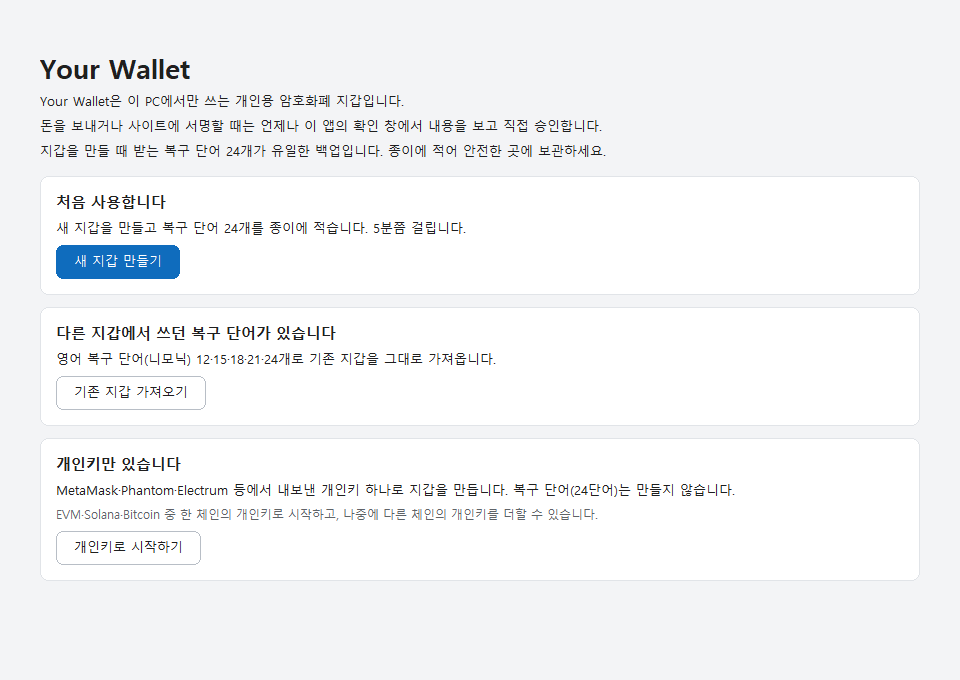
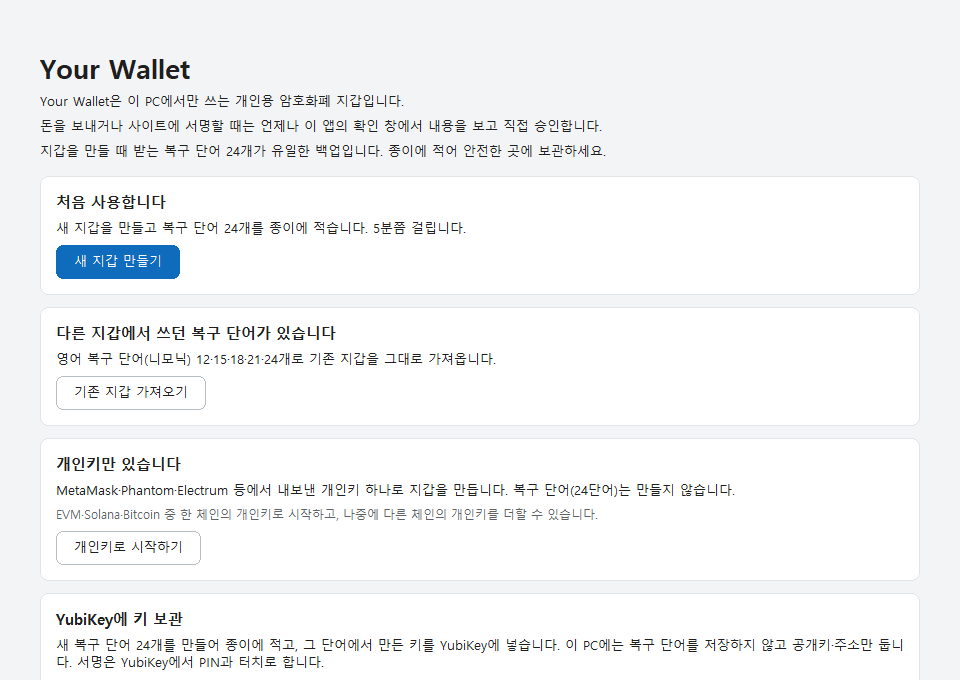
docs: screenshot tour for the YubiKey wizard, the YubiKey wallet and the card step
- tour scenes 35–43: the S01 card "YubiKey에 키 보관", S20, the wizard's
  keys/slots, confirmation (paths and addresses), credentials, W12 admin PIN,
  result (read-back slots, 다시 확인), settings → YubiKey and W11; computed in
  the tour from the public test mnemonic (no card, no key worker, made-up
  serial)
- re-shot 01 (fourth first-run card) and 17/23 (the new settings tab)
- slot lines show the address right after the path

Changed region(s): [[0.0625, 0.8956, 0.9375, 0.9882]]

diff --git a/crates/yw-app/src/ui/tour.rs b/crates/yw-app/src/ui/tour.rs
@@ -891,6 +891,152 @@ fn wait_for_ai(app: &Rc<RefCell<App>>) {
     }
 }
 
+/// The `YubiKey` scenes (spec/10 §7, §9.2): the wizard's four steps, W12, settings → `YubiKey`
+/// and W11. No card and no key worker: the preview and the record are computed here from the
+/// public test mnemonic (`abandon`×11 `about`) — SIG = EVM 0, AUT = Bitcoin P2WPKH 0 (testnet4),
+/// PIV 82 = Solana 0 — and the serial `12345678` is made up.
+#[expect(clippy::too_many_lines, reason = "one scene after another")]
+fn tour_yubikey(app: &Rc<RefCell<App>>) {
+    use yw_core::btc::ScriptType;
+    use yw_core::yubikey::Firmware;
+    use yw_core::yubikey::enrol::{DefaultsSeen, Enrolled};
+    use yw_core::yubikey::plan::{CardSlot, KeyRole, PgpKey, PivSlot, PlannedSlot};
+    use yw_core::yubikey::record::{HwKeyRecord, RecordedSlot};
+
+    use crate::app_yubikey::{WizardOrigin, WizardStep, YkPurpose, YkWizard};
+    use crate::ui::secret::CardSecretKind;
+    use crate::workers::key::yubikey::YkPreview;
+
+    let network = app.borrow().yk_network();
+    let seed = *yw_core::bip39::Mnemonic::parse(&test_phrase_12())
+        .unwrap()
+        .to_seed(&yw_core::password::Bip39Passphrase::empty())
+        .unwrap()
+        .expose();
+    let slots = vec![
+        PlannedSlot::recommended(
+            CardSlot::OpenPgp(PgpKey::Sig),
+            KeyRole::Evm {
+                index: AccountIndex::ZERO,
+                btc: None,
+            },
+        ),
+        PlannedSlot::recommended(
+            CardSlot::OpenPgp(PgpKey::Aut),
+            KeyRole::Btc {
+                network,
+                script: ScriptType::P2wpkh,
+                index: 0,
+            },
+        ),
+        PlannedSlot::recommended(
+            CardSlot::Piv(PivSlot::new(0x82).unwrap()),
+            KeyRole::Sol {
+                index: AccountIndex::ZERO,
+            },
+        ),
+    ];
+    let lines = yw_core::yubikey::enrol::preview_seed(&seed, &slots).unwrap();
+    let (fingerprint, _) = yw_core::yubikey::enrol::seed_identity(&seed).unwrap();
+    let record = HwKeyRecord {
+        serial: 12_345_678,
+        firmware: Firmware::new(5, 7, 4),
+        fingerprint,
+        slots: lines
+            .iter()
+            .map(|line| RecordedSlot {
+                slot: line.planned.slot,
+                role: line.planned.role,
+                touch: line.planned.touch,
+                pin: line.planned.pin,
+                public: line.public,
+            })
+            .collect(),
+    };
+    {
+        let mut state = app.borrow_mut();
+        let mut wizard = YkWizard::new(WizardOrigin::Vault, &[], network);
+        wizard.slots.clone_from(&slots);
+        state.card.wizard = Some(wizard);
+    }
+    set_screen(app, UNLOCKED, Screen::YubiKey);
+    save(main_hwnd(app), "37-yubikey-slots");
+    let step = |app: &Rc<RefCell<App>>, change: &dyn Fn(&mut YkWizard)| {
+        let mut state = app.borrow_mut();
+        if let Some(wizard) = state.card.wizard.as_mut() {
+            change(wizard);
+        }
+        state.scroll = 0;
+        state.refresh();
+    };
+    step(app, &|wizard| {
+        wizard.step = WizardStep::Confirm;
+        wizard.seed_held = true;
+        wizard.preview = Some(YkPreview {
+            lines: lines.clone(),
+            same_as_vault: false,
+            plan: Ok(()),
+        });
+    });
+    save(main_hwnd(app), "38-yubikey-confirm");
+    step(app, &|wizard| wizard.step = WizardStep::Credentials);
+    save(main_hwnd(app), "39-yubikey-credentials");
+    app.borrow_mut().open_input(
+        SecretKind::CardSecret(CardSecretKind::AdminPin),
+        Purpose::YubiKey(YkPurpose::AdminPin),
+        false,
+    );
+    app.borrow_mut().tour_type("12345678");
+    save(secret_hwnd(app), "40-yubikey-admin-pin");
+    app.borrow_mut().close_secret();
+    app.borrow_mut().card.records = vec![record.clone()];
+    step(app, &|wizard| {
+        wizard.step = WizardStep::Result;
+        let defaults = DefaultsSeen {
+            openpgp_admin: true,
+            piv_pin: true,
+            piv_management: true,
+        };
+        wizard.defaults = defaults;
+        wizard.enrolled = Some(Enrolled {
+            record: record.clone(),
+            defaults,
+        });
+        wizard.check = Some(
+            record
+                .slots
+                .iter()
+                .map(|slot| format!("{} — 공개키가 기록과 같습니다 ✓", slot.slot.label()))
+                .collect(),
+        );
+    });
+    save(main_hwnd(app), "41-yubikey-result");
+    app.borrow_mut().card.wizard = None;
+    set_screen(app, UNLOCKED, Screen::Settings(SettingsSection::YubiKey));
+    save(main_hwnd(app), "42-settings-yubikey");
+    // W11: the card step of an approved EVM send of the YubiKey account (made-up step id).
+    set_screen(app, UNLOCKED, Screen::Main);
+    app.borrow_mut().open_input(
+        SecretKind::CardPin {
+            min: 6,
+            max: 127,
+            touches: 1,
+        },
+        Purpose::CardSign(0),
+        false,
+    );
+    app.borrow_mut().with_form(|form| {
+        form.set_details(vec![
+            "서명할 키: EVM 계정 0 (m/44'/60'/0'/0/0)".to_owned(),
+            "이 키를 가진 YubiKey: #12345678".to_owned(),
+        ]);
+    });
+    app.borrow_mut().tour_type("123456");
+    save(secret_hwnd(app), "43-yubikey-card-pin");
+    app.borrow_mut().close_secret();
+    app.borrow_mut().card.records.clear();
+}
+
 #[test]
 #[ignore = "DEV ONLY: opens windows on the desktop and writes BMPs (scripts/screenshot-tour.ps1)"]
 #[expect(clippy::too_many_lines, reason = "one scene after another")]
@@ -975,6 +1121,16 @@ fn screenshot_tour() {
     set_screen(&app, AppMode::NoVault, Screen::KeyStartIntro);
     save(main_hwnd(&app), "24-key-start-bitcoin");
     app.borrow_mut().keys.start = crate::app_keys::KeyStartFlow::default();
+    // The YubiKey wallet (spec/10 §7.1-1): the S01 card scrolled into view, then S20.
+    set_screen(&app, AppMode::NoVault, Screen::FirstRun);
+    {
+        let mut state = app.borrow_mut();
+        state.scroll = 600;
+        state.refresh();
+    }
+    save(main_hwnd(&app), "35-welcome-yubikey");
+    set_screen(&app, AppMode::NoVault, Screen::YubiKeyWalletIntro);
+    save(main_hwnd(&app), "36-yubikey-wallet-start");
 
     // Unlock.
     {
@@ -1264,6 +1420,8 @@ fn screenshot_tour() {
     );
     save(approval_hwnd(&app), "26-approval-connect");
     app.borrow_mut().tour_reject_approval();
+    // YubiKey: the enrolment wizard, settings → YubiKey and the card step (W11).
+    tour_yubikey(&app);
 
     // M6: the optional AI explanation, answered by the tour's own loopback mock.
     let endpoint = tour_llm_mock();

diff --git a/crates/yw-app/src/ui/screens_yubikey.rs b/crates/yw-app/src/ui/screens_yubikey.rs
@@ -273,7 +273,7 @@ fn slot_items(
     role: KeyRole,
     touch: TouchPolicy,
     pin: PinPolicy,
-    public: Option<&yw_core::yubikey::record::HwPublicKey>,
+    addresses: &[String],
     items: &mut Vec<Item>,
 ) {
     items.push(Item::Subtitle(format!(
@@ -282,10 +282,8 @@ fn slot_items(
         role.title()
     )));
     items.push(Item::Field("경로".to_owned(), role.path_text()));
-    if let Some(public) = public {
-        for address in address_texts(role, public).unwrap_or_default() {
-            items.push(Item::Mono(address));
-        }
+    for address in addresses {
+        items.push(Item::Mono(address.clone()));
     }
     let policy = match pin {
         PinPolicy::NotApplicable => format!("터치: {}", touch_label(touch)),
@@ -376,7 +374,7 @@ impl App {
                     slot.role,
                     slot.touch,
                     slot.pin,
-                    Some(&slot.public),
+                    &address_texts(slot.role, &slot.public).unwrap_or_default(),
                     items,
                 );
             }
@@ -718,12 +716,9 @@ impl App {
                 planned.role,
                 planned.touch,
                 planned.pin,
-                None,
+                &line.addresses,
                 items,
             );
-            for address in &line.addresses {
-                items.push(Item::Mono(address.clone()));
-            }
             let holders = crate::yubikey::holders(&self.card.records, planned.role);
             let relation = if holders.is_empty() {
                 "새 키".to_owned()
@@ -847,7 +842,7 @@ impl App {
                 slot.role,
                 slot.touch,
                 slot.pin,
-                Some(&slot.public),
+                &address_texts(slot.role, &slot.public).unwrap_or_default(),
                 items,
             );
         }

diff --git a/docs/screenshots/README.md b/docs/screenshots/README.md
@@ -11,11 +11,12 @@
 - 그 뒤 추가(같은 날): 백업 확인(W10)에서 첫 주소 끝 6자 칸을 없애 단어 4개만 묻게 한 뒤 05를 다시 찍었습니다.
 - 2026-11-03: 토큰 행 숨기기를 더한 뒤 메인·보내기(10·11·15, 보이는 부분은 같음)를 다시 찍고 새로 31(EVM 토큰 카드)을 찍었습니다. 31의 `FREE-AIRDROP` 토큰과 토큰 잔액은 지어낸 값입니다.
 - 2026-11-05: Bitcoin 고정 주소 모드(UniSat·Xverse 방식, 기본값)와 `EVM 계정과 같은 키` 선택을 더한 뒤 16·25를 다시 찍고 새로 32(주소 방식)·33(EVM 키 선택)·34(Bitcoin 받기)를 찍었습니다. 투어의 Bitcoin 계정 0이 이제 시험 니모닉의 실제 testnet4 노드 `m/84'/1'/0'`(공개 정보)라 받기 주소·연결 주소가 BIP84 시험 벡터 첫 주소 `tb1q6rz2…cpvkl`이고, 그래서 같은 주소를 보이는 29·30도 다시 찍었습니다. 잔액·UTXO는 여전히 지어낸 값입니다.
+- 2026-11-05(YubiKey): 등록 마법사·YubiKey 지갑을 더한 뒤 첫 화면(01, 카드가 넷이 되어 넷째 카드는 화면 밖), 설정 탭 줄에 `YubiKey`가 생긴 17·23을 다시 찍고 새로 35–43을 찍었습니다. YubiKey 장면은 실제 카드·키 작업자 없이 투어가 공개 시험 니모닉(`abandon` × 11 + `about`)에서 직접 계산한 미리보기·기록이고, 일련번호 `12345678`은 지어낸 값입니다. 비밀 창 40(W12)·43(W11)의 PIN은 공장 기본값입니다.
 - 화면 크기는 100%(96 DPI) 기준입니다. 비밀 창(03–05, 09)은 실제로는 화면 캡처에서 제외되며, 투어 프로세스가 직접 만든 창에 한해 캡처 직전에 제외를 풀었습니다.
 
 | 파일 | 설명 |
 |---|---|
-| [01-welcome.png](01-welcome.png) | 첫 화면 — 지갑이 무엇인지 세 문장으로 설명하고, 새로 만들지(복구 단어 24개), 복구 단어로 가져올지, 개인키 하나로 시작할지("개인키만 있습니다" → `개인키로 시작하기`, 복구 단어 없음) 고릅니다. |
+| [01-welcome.png](01-welcome.png) | 첫 화면 — 지갑이 무엇인지 세 문장으로 설명하고, 새로 만들지(복구 단어 24개), 복구 단어로 가져올지, 개인키 하나로 시작할지("개인키만 있습니다" → `개인키로 시작하기`, 복구 단어 없음) 고릅니다. 넷째 카드 "YubiKey에 키 보관"(35)은 화면 밖 아래입니다. |
 | [02-create-start.png](02-create-start.png) | 새 지갑 만들기 안내 — 1·2·3 단계 표시와 시작 전에 준비할 것. |
 | [03-create-password.png](03-create-password.png) | 1/3단계 비밀번호 정하기 — 입력은 가려지고 글자 수가 보입니다. |
 | [04-create-recovery-words.png](04-create-recovery-words.png) | 2/3단계 복구 단어 적기 — 24단어와 첫 주소, 2초 길게 눌러 다음으로. |
@@ -49,3 +50,12 @@
 | [32-bitcoin-address-mode.png](32-bitcoin-address-mode.png) | Bitcoin 계정 카드(아래로 스크롤) — 계정 목록 아래 선택 계정의 "주소 방식 — 네이티브 세그윗 계정 0": `고정 주소 하나만 사용 (UniSat·Xverse 방식)`(기본값, 선택됨) / `받을 때마다 새 주소 (HD, 프라이버시↑)`와 한 줄 장단점(고정 주소는 받기·잔돈이 늘 `…/0/0`이라 관리·소유 증명이 쉽지만 그 주소의 잔액과 거래가 모두 보임). 가져온 키 계정에는 이 선택이 없습니다(주소가 하나). |
 | [33-bitcoin-evm-key-choice.png](33-bitcoin-evm-key-choice.png) | `계정 추가`에서 `EVM 계정과 같은 키`를 직접 고른 모습 — 주의 띠(같은 키라 EVM 주소와 BTC 주소의 공개키가 같아져 누구나 같은 사람 것임을 알 수 있고, 다른 BTC 지갑에 니모닉만 넣으면 이 주소가 보이지 않음 — 복구는 이 지갑이나 개인키 내보내기로), EVM 계정 라디오(라벨·주소·`m/44'/60'/0'/0/i`), 주소 형식 버튼. 형식을 누르면 확인 창이 한 번 더 열립니다. |
 | [34-receive-bitcoin.png](34-receive-bitcoin.png) | Bitcoin 받기(S12, 고정 주소 모드) — 카드 제목 `네이티브 세그윗 계정 0 · 고정 주소`, 주소 형식, 정보 띠 "이 계정은 주소 하나만 씁니다. 같은 니모닉을 Electrum/Sparrow/UniSat에 넣으면 같은 주소가 나옵니다.", QR, 4자씩 끊은 주소(BIP84 시험 벡터 첫 주소 `tb1q6rz2…cpvkl`), 경로 `m/84'/1'/0'/0/0`, `주소 복사`(새 주소 버튼 없음). 화면 밖 아래에 받은 돈과 잔돈이 모두 이 주소로 온다는 안내. |
+| [35-welcome-yubikey.png](35-welcome-yubikey.png) | 첫 화면(아래로 스크롤) — 넷째 카드 "YubiKey에 키 보관": 새 복구 단어 24개를 만들어 종이에 적고 그 키를 YubiKey에 넣으며, 이 PC에는 복구 단어를 저장하지 않고 공개키·주소만 둔다는 설명, 필요한 것(YubiKey 5, 펌웨어), `YubiKey 지갑 만들기`. |
+| [36-yubikey-wallet-start.png](36-yubikey-wallet-start.png) | YubiKey 지갑 만들기(S20) — 만들기와 같은 세 단계 표시, "시작하기 전에" 네 줄(단어는 한 번 보이고 PC에 저장하지 않음, 4단어 확인 뒤 키를 고르고 가져옴, 같은 단어로 백업 YubiKey 바로 등록), 주의 띠. 다음은 비밀번호(W01) → 새 단어(W08) → 백업 확인(W10) → 등록 마법사. |
+| [37-yubikey-slots.png](37-yubikey-slots.png) | YubiKey 등록 1/4 키·슬롯 — OpenPGP 서명(SIG)·인증(AUT)마다 넣을 키(`없음`·`EVM 계정`·`Bitcoin 주소`·`EVM 공유 키`), 인덱스, Bitcoin 주소 형식(현재 네트워크 testnet4), 터치(`항상` 기본·`15초 유지`·`항상(고정)`·`15초 유지(고정)`), 경로 미리보기. 첫 YubiKey 기본값 SIG = EVM 0, AUT = Bitcoin P2WPKH 0. 화면 밖 아래에 PIV(Solana 계정 수·첫 인덱스·터치·펌웨어 안내)와 `다음 (복구 단어 입력)`. |
+| [38-yubikey-confirm.png](38-yubikey-confirm.png) | 2/4 확인 — 카드와 통신하기 전, 입력한 복구 단어에서 계산한 슬롯별 경로(`m/44'/60'/0'/0/0`·`m/84'/1'/0'/0/0`·`m/44'/501'/0'/0'`)와 주소(EVM 체크섬, testnet4 `tb1q6rz2…cpvkl`, Solana `HAgk14…KpqK`), 정책, 다른 YubiKey와의 관계(`새 키`), PIV 펌웨어 안내. 이 vault의 복구 단어였다면 위에 고위험 띠와 확인란이 나오고, 같은 경로가 다른 YubiKey에 있으면 위험 띠로 `다음`이 꺼집니다. |
+| [39-yubikey-credentials.png](39-yubikey-credentials.png) | 3/4 자격 정보 — YubiKey 하나만 연결, OpenPGP 관리자 PIN은 다음 창에서(기본 12345678), PIV 관리 키 `기본 관리 키 사용`/`관리 키 직접 입력 (16진수 48자리)`, 슬롯의 기존 키가 바뀐다는 주의 띠, `가져오기`·`가져오기 없이 등록`(이미 키가 있는 YubiKey는 공개키만 읽음)·`← 이전`·`취소`. |
+| [40-yubikey-admin-pin.png](40-yubikey-admin-pin.png) | W12 "YubiKey 관리자 PIN" — 가린 칸 하나(8–127자), `보기`, 한 번만 쓰고 지운다는 안내. 관리 키를 직접 입력하면 같은 모양의 창이 16진수 48자리를 받고, PIN·PUK 바꾸기는 현재·새·새 확인 세 칸입니다. |
+| [41-yubikey-result.png](41-yubikey-result.png) | 4/4 결과 — 완료 띠, YubiKey 일련번호·펌웨어와 다시 읽은 슬롯별 경로·주소·정책, `다시 확인` 결과(슬롯마다 "공개키가 기록과 같습니다 ✓"). 화면 밖 아래에 공장 기본값 안내와 `OpenPGP PIN 바꾸기`·`OpenPGP 관리자 PIN 바꾸기`·`PIV PIN 바꾸기`·`PIV PUK 바꾸기`·`PIV 관리 키 바꾸기`, `완료`·`다른 YubiKey 등록(백업)`. |
+| [42-settings-yubikey.png](42-settings-yubikey.png) | 설정 → YubiKey — 무엇인지 한 문단, 니모닉 지갑이면 같은 단어로 등록하면 보안 이득이 없다는 안내, `YubiKey 등록`, 카드마다 펌웨어·슬롯·경로·주소·정책(아래에 기본값 안내 띠와 `삭제`), 화면 밖에 "계정별 YubiKey"(계정마다 그 키를 가진 일련번호·슬롯, 둘째부터 "(백업)"). |
+| [43-yubikey-card-pin.png](43-yubikey-card-pin.png) | W11 "YubiKey PIN" — 승인 뒤 카드 단계: 연결·PIN·터치 안내, 서명할 키(역할·경로)와 이 키를 가진 YubiKey 일련번호, 가린 PIN 칸(OpenPGP 6–127자). 승인 창 헤더에는 "YubiKey로 서명 · #… · 터치 N회" 배지가 붙습니다. |
